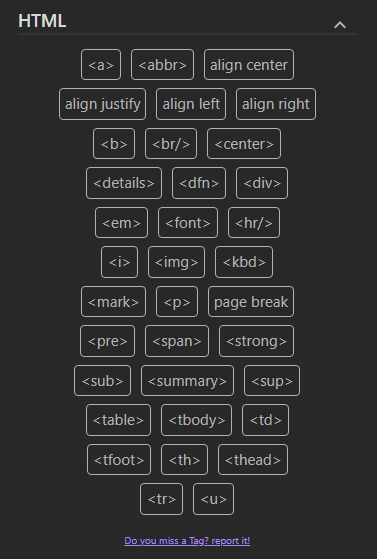
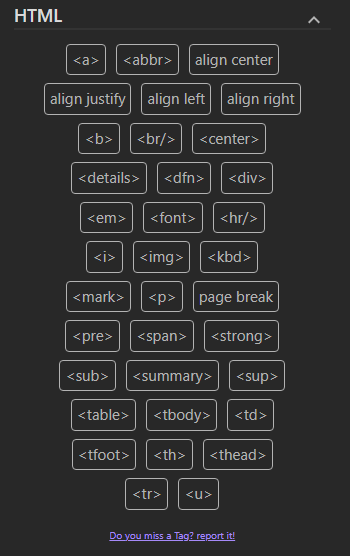
Retake the README screenshots on 0.10.0
Every panel and settings screenshot is retaken on 0.10.0, including the
Greek letters, which was the last picture left from 2021, and the Colors
section, now that its swatches sit where the rest of the panel does. The
overview shows the toolbar above the note.

The README also describes the panel alignment setting, which the new
settings screenshot already shows.

Changed region(s): [[0.1143, 0.0612, 0.8571, 0.9784], [0.0286, 0.0, 0.1714, 0.0612], [0.8857, 0.0306, 0.9143, 0.0612]]

diff --git a/README.md b/README.md
@@ -2,7 +2,7 @@
 
 An Obsidian plugin that puts formatting one click or one keystroke away: a side panel of buttons for Markdown, tables, HTML, LaTeX, Greek letters, callouts and colours, a search window over all of them, a hotkey for every action, and — if you want one — a toolbar of your own above the note.
 
-- **Side panel** with seven sections you can reorder, fold and switch off.
+- **Side panel** with seven sections you can reorder, fold and switch off, its buttons lined up left, centre or right.
 - **`Alt+Q`** searches about 160 snippets by name, in your language or in English. **`Alt+C`** does the same for the 26 callouts.
 - **Hotkeys** for every Text Edit action and every callout, bound wherever you like.
 - **Toolbar above the note**, off by default: any command in your vault, in the order you choose.
@@ -25,6 +25,8 @@ To install by hand, download `main.js`, `manifest.json` and `styles.css` from th
 Open it with the ribbon icon on the left, or with the command *Open Markdown Formatting Assistant*, which can be given a hotkey like any other. It opens in the right sidebar; `Side Pane Side` in the settings moves it to the left — press the ribbon icon again after changing it.
 
 The panel follows the width of its pane, so the button grid reflows when you drag the pane wider or narrower. It works on mobile too.
+
+The buttons are centred unless you choose otherwise: `Panel button alignment` in the settings lines them up on the left or the right instead — the swatches, the table picker and the links under each section with them. An open panel changes straight away.
 
 With text selected, formatting buttons — bold, a tag, a callout and the like — wrap it rather than replace it. With nothing selected, they insert at the cursor.
 
@@ -68,7 +70,7 @@ Two things that are not tags but are written as HTML because Obsidian has no Mar
 
 > Like LaTeX, Greek letters only work inside an equation.
 
-![The Greek Letters section of the side panel](assets/Panel_Overview_Greek_Letters.png)
+![The Greek Letters section of the side panel](assets/panel-greek.png)
 
 ### Callouts
 
@@ -132,6 +134,8 @@ Desktop only. On mobile Obsidian already puts a toolbar above the keyboard, and 
 
 Click any swatch to use that colour again. Right-click a swatch to remove it, and drag saved colours to change their order.
 
+![The Colors section of the side panel, with recent and saved colours](assets/panel-colors.png)
+
 ### Colouring selected text
 
 Select some text and click a colour — recent, saved, or freshly picked — and the selection is wrapped so it takes that colour. One click, no options to tick first.
@@ -169,6 +173,7 @@ Translations other than English and Russian have not been reviewed by native spe
 
 - **Language** — default: same as Obsidian. Any of the 12 supported languages. Takes effect after a restart.
 - **Side Pane Side** — default: right. Which sidebar the panel opens in.
+- **Panel button alignment** — default: center. Left, center or right: where the buttons in the panel's sections sit, together with the swatches, the table picker and the links under each section. Takes effect at once.
 - **Write callout headings** — default: on. Writes the callout's name as its heading, in your language. The keyword inside `[!note]` stays English either way.
 - **Toggle *section* Section** — default: all on. Every section of the side panel can be switched off. Takes effect after a restart.
 - **Toolbar above the note** — default: off. Which commands appear on it, in what order, and whether they sit left, centre or right. Desktop only.
